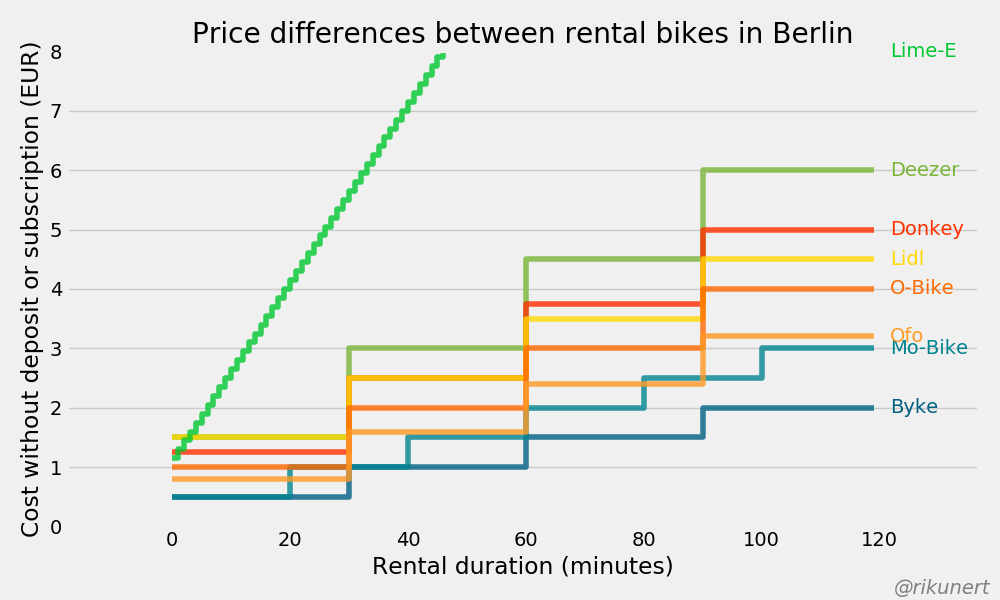
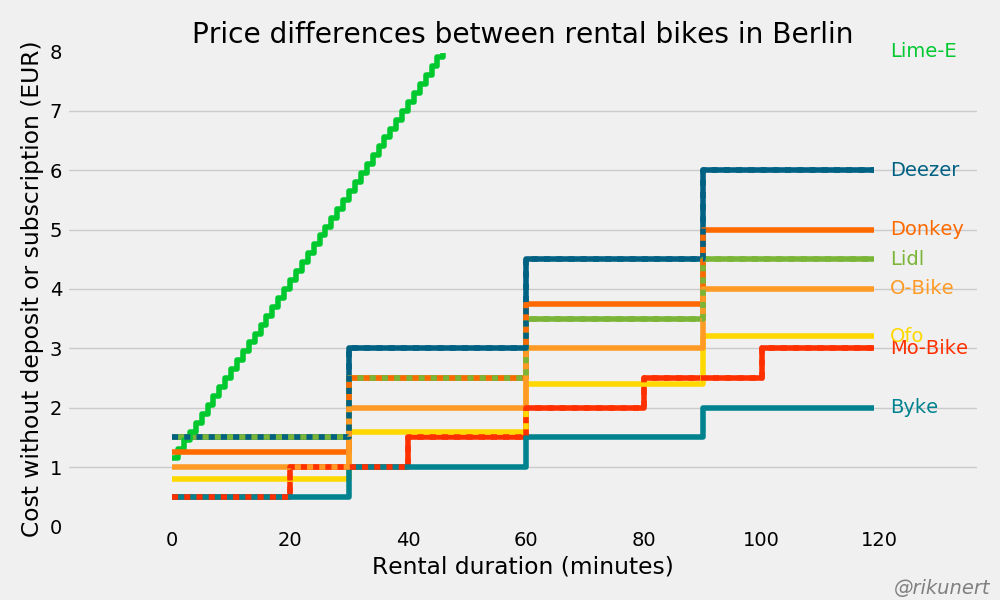
new pricing figure

diff --git a/rental_bike_analysis.py b/rental_bike_analysis.py
@@ -150,6 +150,7 @@ df_cost = pd.DataFrame(data={'Deezer': [(i//30 + 1) * 1.5 for i in range(duratio
                         'Byke':[(i//30 + 1) * 0.5 for i in range(duration)],
                         'Donkey':[(i//30 + 1) * 1.25 for i in range(duration)],
                         'O-Bike':[(i//30 + 1) * 1 for i in range(duration)]})
+df_cost = df_cost[df.columns[5:-2]]#  reorder columns
 df_cost_extra = df_cost.copy()
 df_cost_extra['Lidl'] = df_cost_extra['Lidl'] + 3
 df_cost_extra['Mo-Bike'] = df_cost_extra['Mo-Bike'] + 2
@@ -160,13 +161,23 @@ def cost_plotter(df):
     fig_cost, ax_cost = plt.subplots(tight_layout=True, figsize=[10, 6])
     df.plot(drawstyle="steps-post", linewidth=4, color=colours,
              ax=ax_cost,
-             alpha=0.8,
              legend=False)
     ax_cost.set(xlabel='Rental duration (minutes)',
        ylabel='Cost without deposit or subscription (EUR)',
        ylim=[0, 8],
        title='Price differences between rental bikes in Berlin')
     ax_cost.grid(visible=False, axis='x')
+
+    # additional plotting with different line styles
+    lstyle = [':', ':', ':',
+                 '-', '-', '-',
+                 ':', '-', '-']
+    for i in [1, 2, 0]:
+        df.iloc[:, i].plot(drawstyle="steps-post",
+                    linewidth=4, color=colours[i],
+                    linestyle=lstyle[i],
+            ax=ax_cost,
+            legend=False)
 
     # new legend
     x_pos = ax_cost.get_xticks()
